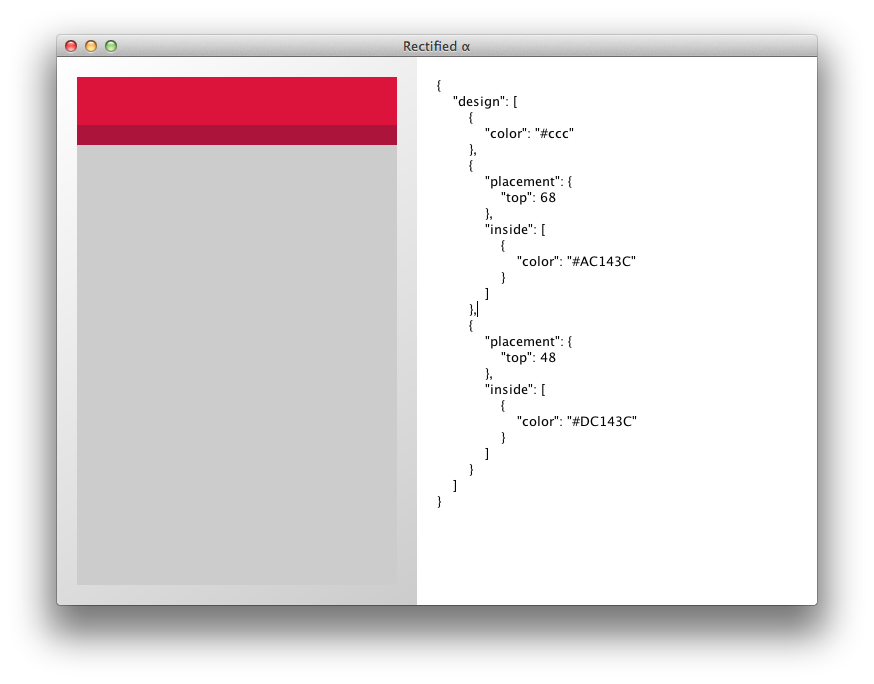
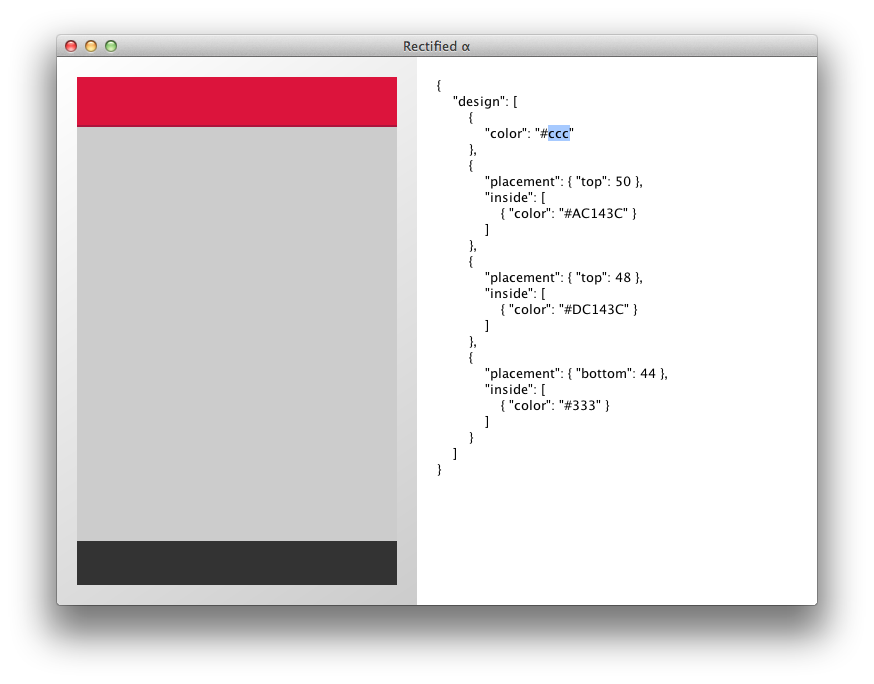
Add more complete example

diff --git a/src/main/java/net/avh4/tools/rectified/AppConfig.java b/src/main/java/net/avh4/tools/rectified/AppConfig.java
@@ -1,11 +1,21 @@
 package net.avh4.tools.rectified;
 
+import org.apache.commons.io.IOUtils;
+
+import java.io.IOException;
+
 public class AppConfig {
     public String appName() {
         return "Rectified α";
     }
 
     public String defaultDesign() {
-        return "{\"design\": [{\"color\":\"#eeeeee\"}]}";
+        try {
+            return IOUtils.toString(getClass().getResourceAsStream("example.json"));
+        } catch (IOException e) {
+            System.out.println("Failed to load example");
+            e.printStackTrace();
+            return "{\"design\": [{\"color\":\"#eeeeee\"}]}";
+        }
     }
 }
